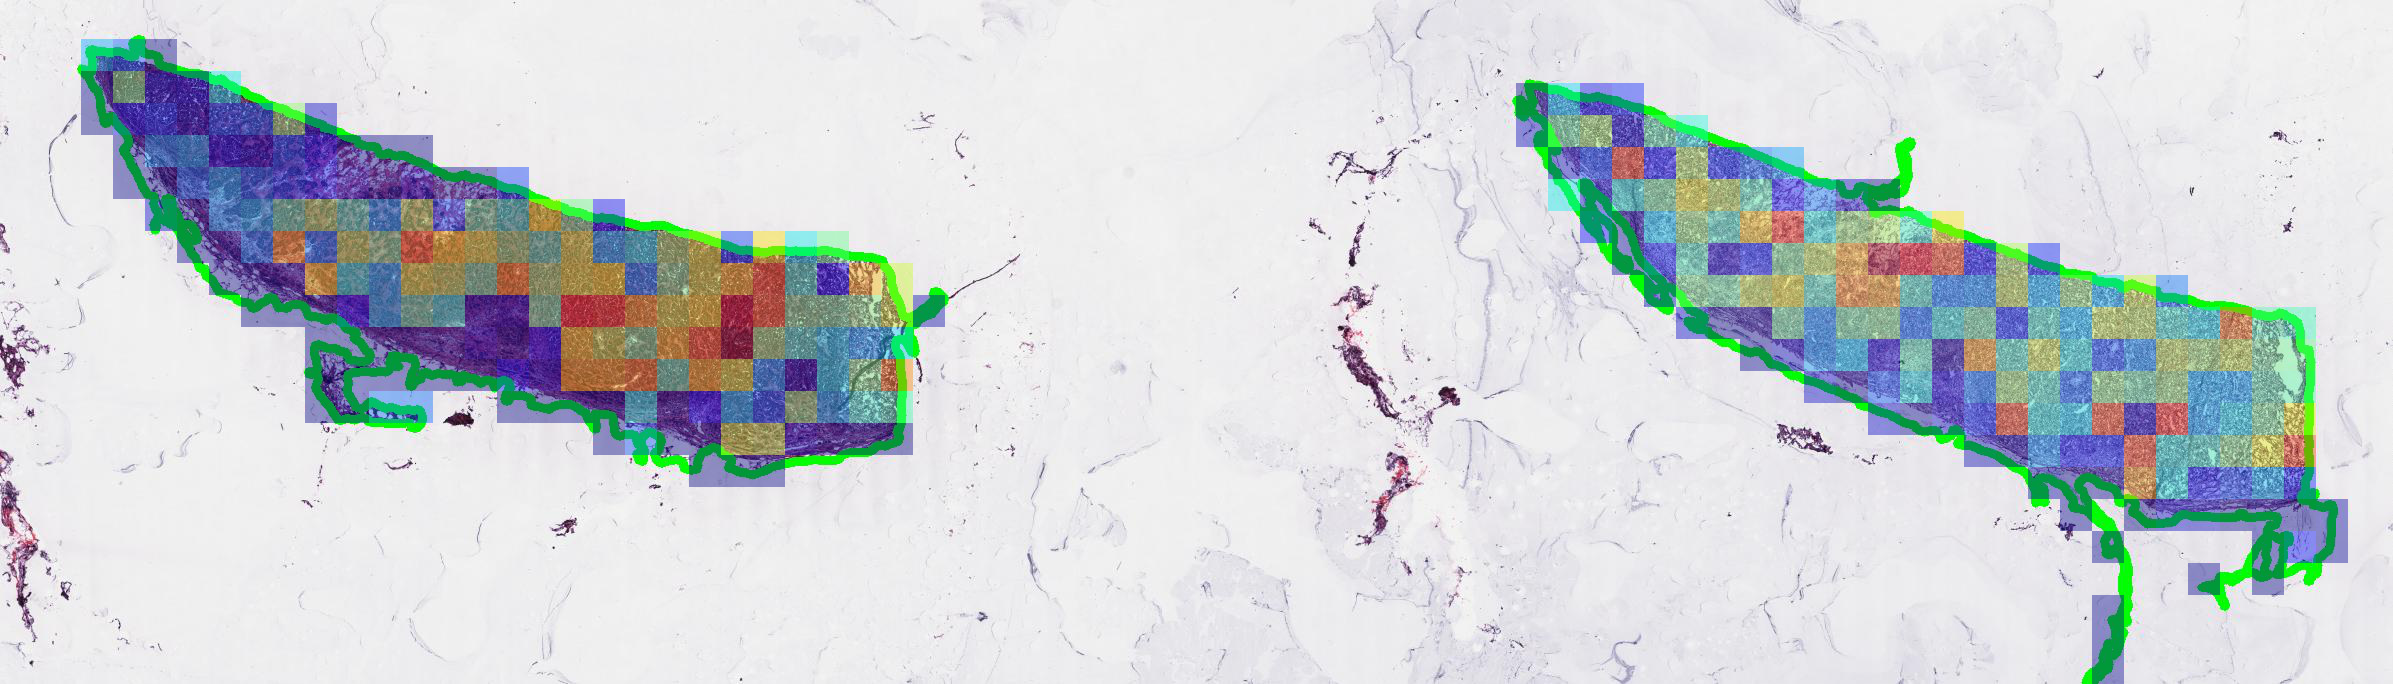
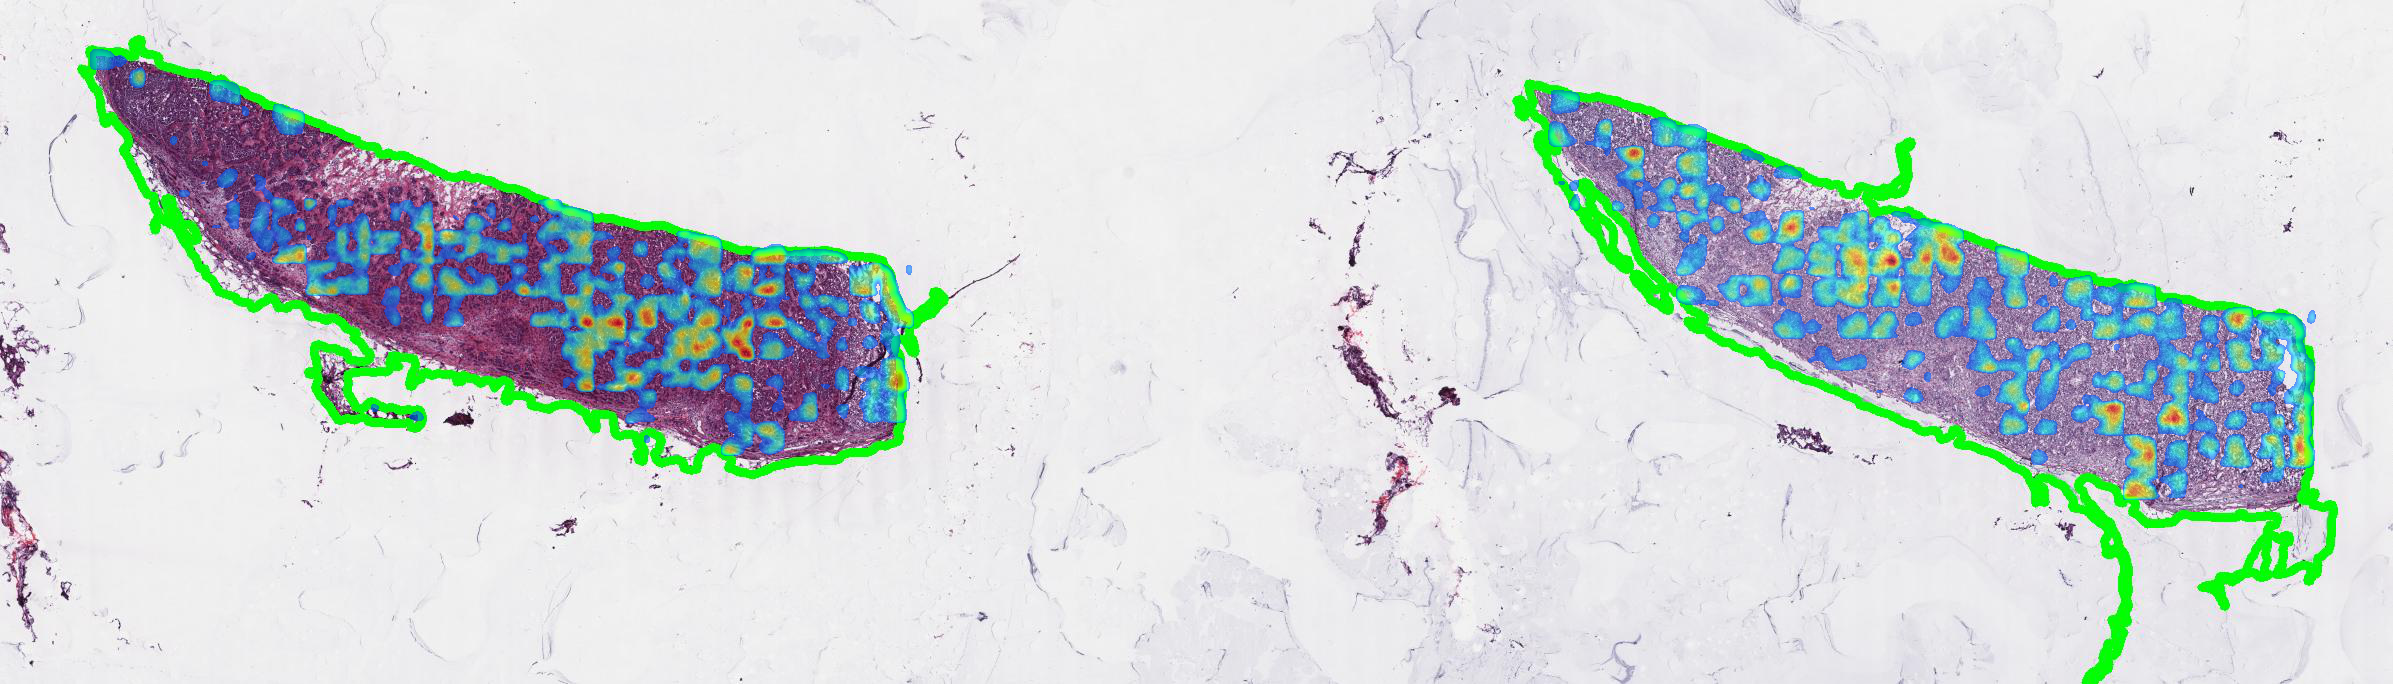
Updated attention map generation

Changed region(s): [[0.6185, 0.1228, 0.9896, 1.0], [0.0309, 0.0307, 0.402, 0.7368]]

diff --git a/attention_map.py b/attention_map.py
@@ -1,14 +1,16 @@
 import torch
-import math
+import torch.nn.functional as F
+import torchvision.transforms as transforms
+import torchvision
 import matplotlib.pyplot as plt
 import matplotlib.cm as cm
 from models import *
 from PIL import Image
 import numpy as np
 import h5py
-import cv2
 import openslide
 import pandas as pd
+from scipy.ndimage import gaussian_filter
 
 
 
@@ -35,11 +37,11 @@ else:
 
 
 model = ABMIL(use_layernorm=True, dropout=0.2)
-model.load_state_dict(torch.load('./model_weights.pth', weights_only=True,  map_location=torch.device('cpu')))
+model.load_state_dict(torch.load('./model_weights.pth', weights_only=True))
 model = model.to(device)
 model.eval()
 
-patient_id = 'TCGA-E2-A155'
+patient_id = 'TCGA-E2-A155' #'TCGA-EW-A2FW'
 dataframe = pd.read_csv("/work/ai4bio2024/brca_surv/dataset/dataset_brca_wsi.csv")
 patient_row = dataframe.loc[dataframe["case_id"] == patient_id].iloc[0]
 id_ = patient_row["id"]
@@ -72,23 +74,113 @@ with torch.no_grad():
     output , attn_scores = model(data)
 
 attn_scores = attn_scores.squeeze().cpu().detach().numpy()
-attn_scores = (attn_scores - attn_scores.min()) / (attn_scores.max() - attn_scores.min()) ## normalize
+attn_scores = (attn_scores - attn_scores.min()) / (attn_scores.max() - attn_scores.min())
+
+############
+
+pre_preprocess = transforms.Compose([
+        transforms.Resize(256),
+        transforms.CenterCrop(224),
+        
+        transforms.Normalize(mean=[0.485, 0.456, 0.406], std=[0.229, 0.224, 0.225]),
+    ])#transforms.ToTensor(),
+
+resnet = torchvision.models.resnet50(pretrained=True)
+resnet.eval()
+resnet = resnet.to(device)
+
+
+def get_attention_map(model, image_tensor, layer='layer4'):
+    activation = {}
+
+    def get_activation(name):
+        def hook(model, input, output):
+            activation[name] = output.detach()
+        return hook
+
+    if hasattr(model, layer):
+        hook_handle = model.layer4.register_forward_hook(get_activation(layer))
+
+        with torch.no_grad():
+            _ = model(image_tensor)
+
+        hook_handle.remove()
+
+        return activation[layer]
+    else:
+        raise ValueError(f'{layer} doesn\'t exists.')
+    
+def get_patch(wsi, coord, patch_dim = 1024):
+    x, y = coord
+    level = 0
+    patch = wsi.read_region((x, y), level, (patch_dim, patch_dim))
+
+    patch_np = np.array(patch)
+    patch_tensor = torch.from_numpy(patch_np).permute(2, 0, 1)
+    if patch_tensor.size(0) == 4:
+        patch_tensor = patch_tensor[:3, :, :]
+    patch_tensor = patch_tensor.float() /255.0
+    return patch_tensor
+    
+
+def get_heatmap(model, wsi, coord, out_dim, att, pre_processor):
+    patch = get_patch(wsi, coord)
+    tensor = pre_processor(patch).unsqueeze(0).to(device)
+    attention_map = get_attention_map(model, tensor)
+    attention_map = attention_map.squeeze()#.cpu().numpy()
+    attention_map = torch.mean(attention_map, axis=0)
+    attention_map = (attention_map - attention_map.min()) / (attention_map.max() - attention_map.min())
+    attention_map *= att
+    #attention_map_resized = Image.fromarray((attention_map * 255).astype(np.uint8)).resize(out_dim, Image.BILINEAR)
+    attention_map = attention_map.unsqueeze(0).unsqueeze(0)
+    attention_map = F.interpolate(attention_map, size=out_dim, mode='bilinear', align_corners=False)
+    attention_map = attention_map.squeeze().cpu().numpy()
+
+    return attention_map
 
 
 
 patch_dim = round(1024*width_mask/width)
 
-heatmap = np.zeros((height_mask, width_mask, 3), dtype=np.uint8)
-alpha = 0.4
+#heatmap = np.zeros((height_mask, width_mask, 3), dtype=np.uint8)
+heatmap = np.zeros((height_mask, width_mask))
+alpha = 0.6#0.4
 for i, coord in enumerate(coordinates):
     x, y = get_coordinates(coord,original_dim,new_dim)
     x_end = min(x + patch_dim, width_mask)
     y_end = min(y + patch_dim, height_mask)
-    color = cm.jet(attn_scores[i])[:3]
+    out_dim = (y_end-y, x_end-x)
+    att = get_heatmap(resnet, slide, coord, out_dim, attn_scores[i], pre_preprocess)
+    heatmap[y:y_end,x:x_end] = att
+    '''color = cm.jet(attn_scores[i])[:3]
     color = (np.array(color)*255).astype(np.uint8)
     heatmap[y:y_end,x:x_end] = color
     new_patch = (1 - alpha) * mask_img[y:y_end,x:x_end] + alpha * heatmap[y:y_end,x:x_end]
+    mask_img[y:y_end,x:x_end] = np.clip(new_patch, 0, 255).astype(np.uint8)'''
+
+heatmap = gaussian_filter(heatmap, sigma = 2)
+
+mask = heatmap != 0
+min_att = np.min(heatmap[mask])
+heatmap[mask] = (heatmap[mask] - min_att) / (heatmap.max() - min_att)
+
+threshold = 0.2
+mask_heatmap = heatmap < threshold
+heatmap[mask_heatmap] = 0
+
+colors = cm.jet(heatmap)[:, :, :3]
+colors = (colors * 255).astype(np.uint8)
+
+for i, coord in enumerate(coordinates):
+    x, y = get_coordinates(coord,original_dim,new_dim)
+    x_end = min(x + patch_dim, width_mask)
+    y_end = min(y + patch_dim, height_mask)
+    #new_patch = (1 - alpha) * mask_img[y:y_end,x:x_end] + alpha * colors[y:y_end,x:x_end]
+    new_patch = np.where(np.expand_dims(heatmap[y:y_end,x:x_end]>0, axis=-1),
+                         (1 - alpha) * mask_img[y:y_end,x:x_end] + alpha * colors[y:y_end,x:x_end],
+                         mask_img[y:y_end,x:x_end])
     mask_img[y:y_end,x:x_end] = np.clip(new_patch, 0, 255).astype(np.uint8)
+
 
 img_with_heatmap = Image.fromarray(mask_img)
 
